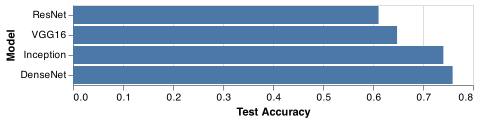
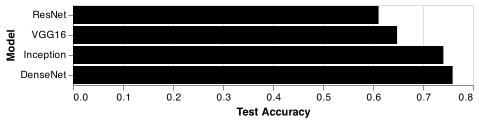
Update script to improve bar graphs and a df

diff --git a/generate_figures.py b/generate_figures.py
@@ -4,19 +4,25 @@
 # This simple script produces figures for the final report. It expects two folders to
 # be downloaded from OneDrive: cropped_data and models.
 
+# gets the path for the src directory to access cnn_utils script
+import sys
+import os
+
+sys.path.append(os.path.dirname((os.getcwd())) + "/src")
+
 import pandas as pd
 import numpy as np
 from cnn_utils import *
 import altair as alt
-import os
 from matplotlib.pyplot import figure, imshow, axis, savefig
 from matplotlib.image import imread
 
+
 # create a dataframe of positive and negative examples
 # download cropped data folder from Onedrive
-pos_folder = "cropped_data/positive/raw"
-neg_folder_1 = "cropped_data/negative_combined/negative/mapped"
-neg_folder_2 = "cropped_data/negative_combined/negative/negative_unmapped"
+pos_folder = "../cropped_data/positive/raw"
+neg_folder_1 = "../cropped_data/negative_combined/negative/mapped"
+neg_folder_2 = "../cropped_data/negative_combined/negative/negative_unmapped"
 
 total_positives = len(os.listdir(pos_folder))
 total_negatives = len(os.listdir(neg_folder_1)) + len(os.listdir(neg_folder_2))
@@ -74,11 +80,13 @@ test_summary_df = pd.DataFrame(
     }
 )
 
+test_summary_df.to_csv("results/test_summary_df", index=False)
+
 # create bar chart for accuracy
 
 model_acc_bar_chart = (
     alt.Chart(test_summary_df)
-    .mark_bar()
+    .mark_bar(color="black")
     .encode(
         x=alt.X("test_accuracy", title="Test Accuracy"),
         y=alt.Y("model", title="Model", sort="x"),
@@ -92,7 +100,7 @@ model_acc_bar_chart.save("image/model_acc_bar_chart.png")
 
 model_recall_bar_chart = (
     alt.Chart(test_summary_df)
-    .mark_bar()
+    .mark_bar(color="black")
     .encode(
         x=alt.X("test_recall", title="Test Recall"),
         y=alt.Y("model", title="Model", sort="x"),
@@ -104,10 +112,10 @@ model_recall_bar_chart.save("image/model_recall_bar_chart.png")
 # get file sizes
 # get models folder from OneDrive
 file_paths = [
-    "models/trained_models_May25/resnet.pt",
-    "models/trained_models_May25/inception_bo_simple.pth",
-    "models/trained_models_June2/densenet_final.pth",
-    "models/trained_models_June2/vgg16-final.pth",
+    "../models/trained_models_May25/resnet.pt",
+    "../models/trained_models_May25/inception_bo_simple.pth",
+    "../models/trained_models_June2/densenet_final.pth",
+    "../models/trained_models_June2/vgg16-final.pth",
 ]
 
 size_df = pd.DataFrame(
